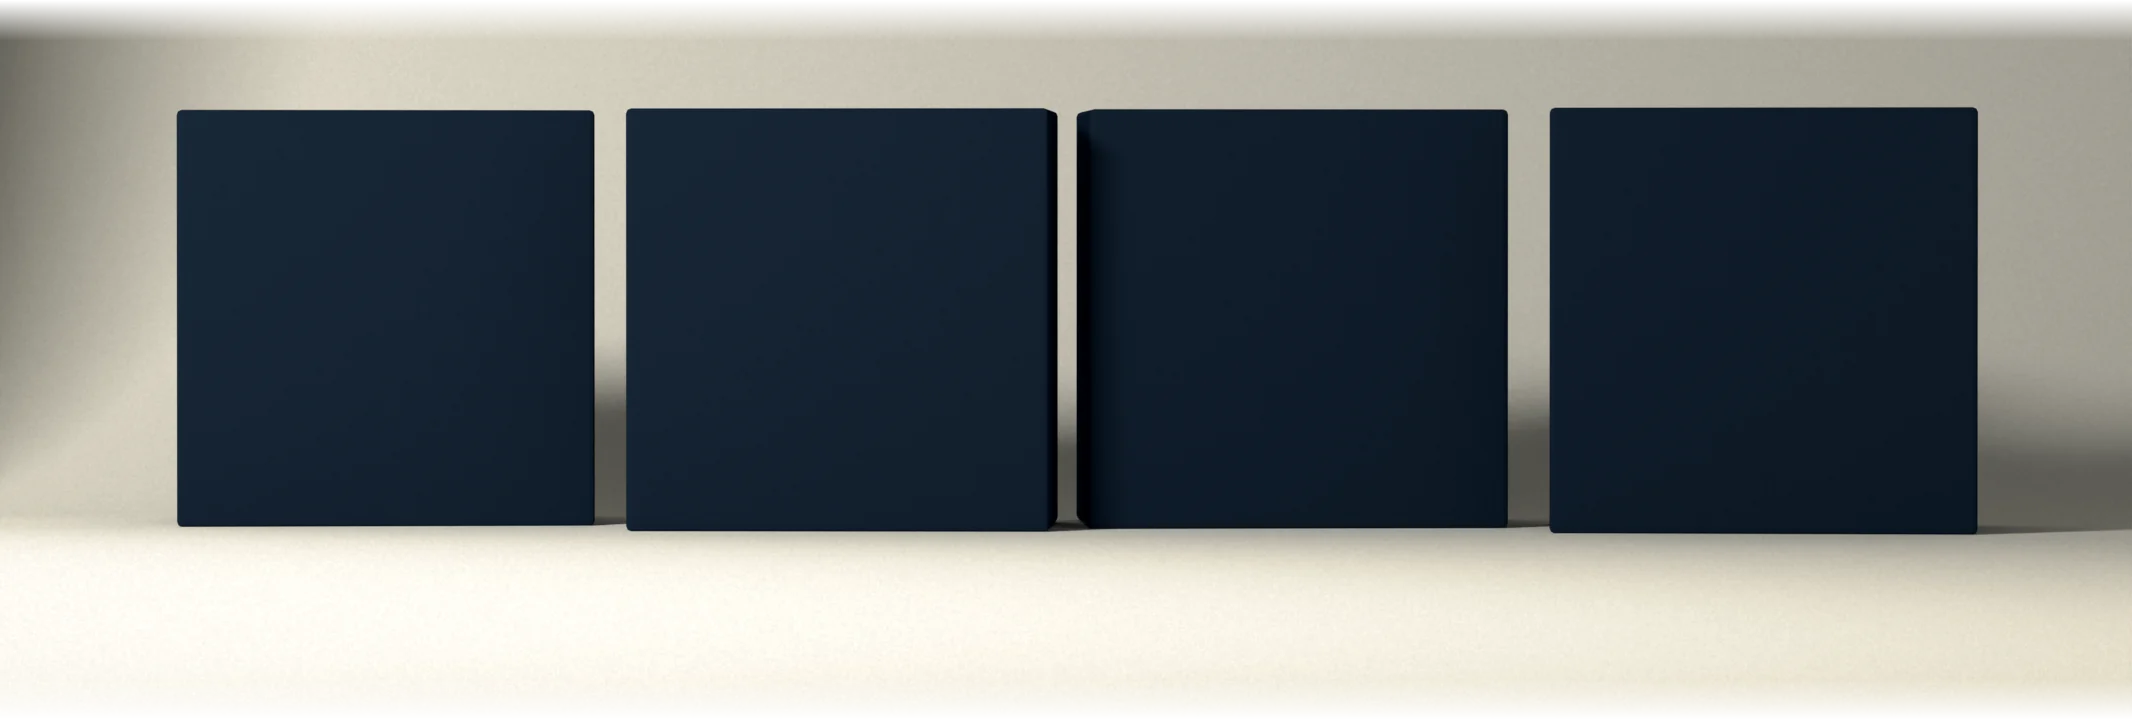
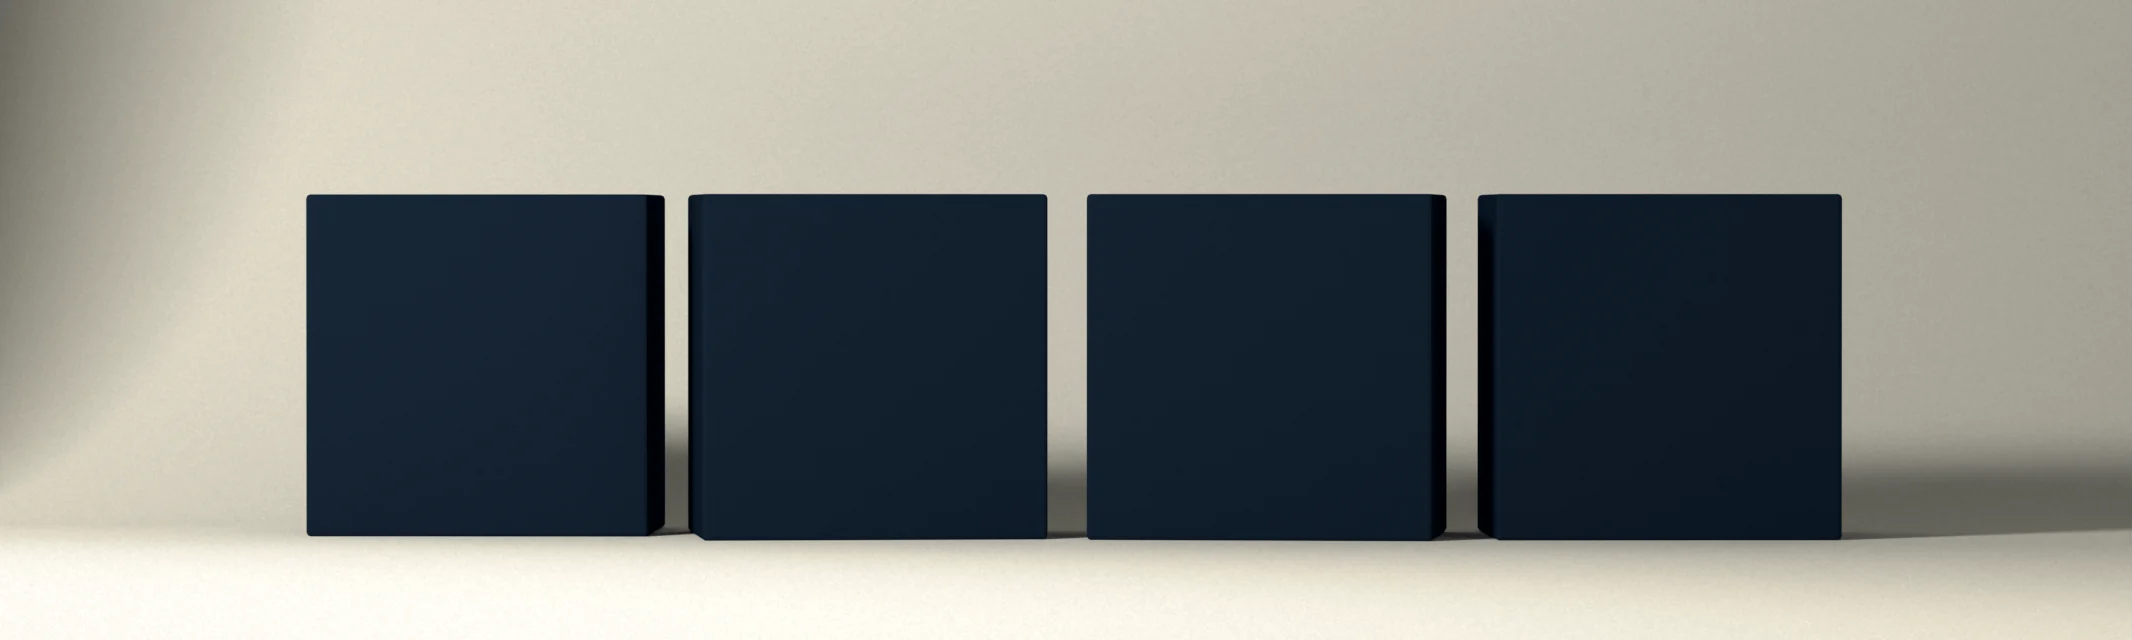
Four Ps: press them together first, then throw them apart
Still too subtle was the note, three times running. This makes the move
bigger in every axis it has, and gives it a reversal.

TWO STAGES. The masses are now pressed together before they repel. The
press is a uniform contraction pushing into a resistance that grows the
whole way, so they enter fast and arrive slowly - the outer pair at about a
fifteenth of the speed it started with - and stop with the faces 5-23px
apart. Then the press lets go and the repulsion at that gap throws them
out. Both stages come out of one integration on one clock, so they stagger
against each other rather than moving in step.

THEY TURN. Rotation was static per mass; it is now animated, and the range
is 18-21 degrees each rather than a few. They square up as they are pressed
together and twist as they are thrown apart - an extended body shoved
off-centre gets a torque, not just a push. The turn is deliberately LAGGED
behind the lateral move (and so is the depth), because the spring apart is
front-loaded by the physics and without the lag the back half of the
scroll had nothing left to do.

MORE OF EVERYTHING ELSE. Depth now spans 5.3m rather than 2.4 - PLACE comes
nearly three metres forward and PRODUCT goes two and a half back, an 11%
difference in apparent size. On screen the gaps between the faces run
84/42/96px at the top of the section, 8/23/5 at the tightest, and
138/190/130 at the end. The previous pass went 8/10/13 to 48/56/74.
[…]

diff --git a/assets/kd.js b/assets/kd.js
@@ -186,7 +186,7 @@
 
   // Plate geometry, emitted by the render so the markup and the scroll
   // driver cannot drift from the image they are positioning against.
-  window.KD_PS={"w":2132,"h":1600,"n":28,"band":{"x":0,"y":500,"w":2132,"h":720},"anchor":820,"masses":[{"name":"PRODUCT","copy":"What you make."},{"name":"PRICE","copy":"What you ask."},{"name":"PLACE","copy":"Where and how it reaches people."},{"name":"PROMOTION","copy":"What you say and signal."}],"frames":[[[1.00784,0.001433,203.751995,0.007011,1.001476,609.072351,1e-05,1e-06],[0.999722,0.001439,636.4867,-0.003133,1.006032,608.594489,-4e-06,1e-06],[1.008215,0.001436,1073.807998,0.004687,1.003613,608.848262,7e-06,1e-06],[0.990943,0.00144,1512.166691,-0.007835,1.007491,608.441353,-1.1e-05,1e-06]],[[1.006481,0.001431,196.034285,0.007002,1.000126,609.214044,1e-05,1e-06],[0.999722,0.001439,636.4867,-0.003133,1.006032,608.594489,-4e-06,1e-06],[1.008215,0.001436,1073.807998,0.004687,1.003613,608.848262,7e-06,1e-06],[0.991725,0.001444,1517.246471,-0.007841,1.008287,608.357954,-1.1e-05,1e-06]],[[1.005361,0.001429,189.675776,0.006993,0.999013,609.330845,1e-05,1e-06],[0.999722,0.001439,636.4867,-0.003133,1.006032,608.594489,-4e-06,1e-06],[1.008215,0.001436,1073.807998,0.004687,1.003613,608.848262,7e-06,1e-06],[0.993264,0.001443,1527.248201,-0.007853,1.009849,608.193946,-1.1e-05,1e-06]],[[1.004385,0.001428,184.133943,0.006987,0.998043,609.432554,1e-05,1e-06],[0.999722,0.001439,636.4867,-0.003133,1.006032,608.594489,-4e-06,1e-06],[1.007986,0.001435,1074.813305,0.004685,1.003385,608.872151,7e-06,1e-06],[0.994534,0.001447,1535.512025,-0.007863,1.011143,608.058405,-1.1e-05,1e-06]],[[1.003509,0.001426,179.160781,0.00698,0.997172,609.523892,1e-05,1e-06],[0.99983,0.00144,636.223206,-0.003133,1.006142,608.582973,-4e-06,1e-06],[1.007526,0.001434,1076.837771,0.004683,1.002926,608.920217,7e-06,1e-06],[0.99565,0.001449,1542.765713,-0.007872,1.012278,607.939386,-1.1e-05,1e-06]],[[1.002709,0.001425,174.615646,0.006976,0.996376,609.607291,1e-05,1e-06],[1.000463,0.00144,634.684747,-0.003135,1.006778,608.516169,-4e-06,1e-06],[1.007014,0.001433,1079.086273,0.004681,1.002417,608.973575,7e-06,1e-06],[0.996658,0.001449,1549.320986,-0.00788,1.013302,607.831812,-1.1e-05,1e-06]],[[1.001967,0.001424,170.408743,0.00697,0.99564,609.684539,1e-05,1e-06],[1.001386,0.001441,632.443805,-0.003138,1.007707,608.418751,-4e-06,1e-06],[1.006515,0.001433,1081.283944,0.004679,1.00192,609.025788,7e-06,1e-06],[0.997585,0.00145,1555.350413,-0.007888,1.014245,607.732964,-1.1e-05,1e-06]],[[1.001275,0.001423,166.478454,0.006965,0.994952,609.756708,1e-05,1e-06],[1.002343,0.001443,630.120074,-0.003141,1.00867,608.317757,-4e-06,1e-06],[1.006038,0.001433,1083.379065,0.004676,1.001446,609.075499,7e-06,1e-06],[0.998448,0.001452,1560.963027,-0.007894,1.015122,607.64091,-1.1e-05,1e-06]],[[1.000624,0.001423,162.779574,0.006961,0.994306,609.824586,1e-05,1e-06],[1.003269,0.001444,627.869538,-0.003144,1.009602,608.219981,-4e-06,1e-06],[1.005588,0.001432,1085.363882,0.004674,1.000997,609.122634,7e-06,1e-06],[0.999259,0.001453,1566.233932,-0.007901,1.015946,607.554436,-1.1e-05,1e-06]],[[1.000007,0.001422,159.278456,0.006956,0.993693,609.888887,1e-05,1e-06],[1.004148,0.001445,625.73496,-0.003147,1.010486,608.127213,-4e-06,1e-06],[1.00516,0.001431,1087.244115,0.004673,1.000571,609.167266,7e-06,1e-06],[1.000025,0.001452,1571.217768,-0.007907,1.016725,607.47261,-1.1e-05,1e-06]],[[0.999421,0.001421,155.948512,0.006952,0.99311,609.950042,1e-05,1e-06],[1.004978,0.001447,623.719009,-0.003149,1.011322,608.039594,-4e-06,1e-06],[1.004755,0.001431,1089.02904,0.004671,1.000168,609.209609,7e-06,1e-06],[1.000755,0.001455,1575.955584,-0.007912,1.017467,607.394934,-1.1e-05,1e-06]],[[0.998861,0.00142,152.768694,0.006948,0.992553,610.008407,1e-05,1e-06],[1.005766,0.001448,621.804847,-0.003151,1.012115,607.956409,-4e-06,1e-06],[1.004367,0.001429,1090.728315,0.004669,0.999782,609.250021,7e-06,1e-06],[1.00145,0.001457,1580.479529,-0.007918,1.018175,607.32069,-1.1e-05,1e-06]],[[0.998324,0.001419,149.722036,0.006945,0.992019,610.06434,1e-05,1e-06],[1.006516,0.001449,619.982371,-0.003154,1.01287,607.877231,-4e-06,1e-06],[1.003998,0.001429,1092.350835,0.004667,0.999415,609.288573,7e-06,1e-06],[1.002118,0.001457,1584.8154,-0.007923,1.018852,607.249594,-1.1e-05,1e-06]],[[0.997808,0.001418,146.794275,0.006941,0.991507,610.118055,1e-05,1e-06],[1.007233,0.00145,618.242177,-0.003156,1.013591,607.801557,-4e-06,1e-06],[1.003646,0.001429,1093.90448,0.004666,0.999064,609.325409,7e-06,1e-06],[1.002759,0.001459,1588.984164,-0.007928,1.019504,607.181215,-1.1e-05,1e-06]],[[0.997311,0.001418,143.973798,0.006938,0.991014,610.16984,1e-05,1e-06],[1.007918,0.001451,616.575624,-0.003159,1.014282,607.729173,-4e-06,1e-06],[1.003307,0.001429,1095.396111,0.004664,0.998727,609.360814,7e-06,1e-06],[1.003377,0.00146,1593.003104,-0.007933,1.020133,607.11534,-1.1e-05,1e-06]],[[0.996832,0.001417,141.250504,0.006934,0.990538,610.219836,1e-05,1e-06],[1.008577,0.001452,614.977439,-0.00316,1.014943,607.659721,-4e-06,1e-06],[1.00298,0.001429,1096.831574,0.004662,0.998402,609.394932,7e-06,1e-06],[1.003974,0.00146,1596.886708,-0.007938,1.02074,607.051611,-1.1e-05,1e-06]],[[0.996368,0.001416,138.615831,0.006931,0.990076,610.268259,1e-05,1e-06],[1.009208,0.001452,613.443555,-0.003163,1.015578,607.59306,-4e-06,1e-06],[1.002666,0.001428,1098.214427,0.004661,0.998088,609.427762,7e-06,1e-06],[1.004553,0.001461,1600.6473,-0.007942,1.021329,606.989884,-1.1e-05,1e-06]],[[0.995918,0.001416,136.062439,0.006928,0.989629,610.315108,1e-05,1e-06],[1.009818,0.001454,611.962662,-0.003165,1.016192,607.528687,-4e-06,1e-06],[1.002362,0.001428,1099.549499,0.004659,0.997787,609.459448,7e-06,1e-06],[1.005113,0.001462,1604.295557,-0.007947,1.021899,606.930089,-1.1e-05,1e-06]],[[0.995482,0.001415,133.583943,0.006925,0.989195,610.360599,1e-05,1e-06],[1.010408,0.001454,610.530185,-0.003166,1.016785,607.466459,-4e-06,1e-06],[1.002068,0.001427,1100.842381,0.004658,0.997494,609.490132,7e-06,1e-06],[1.005658,0.001462,1607.8405,-0.007951,1.022453,606.871939,-1.1e-05,1e-06]],[[0.995057,0.001414,131.174616,0.006922,0.988774,610.404873,1e-05,1e-06],[1.010979,0.001456,609.141868,-0.003168,1.017361,607.406092,-4e-06,1e-06],[1.001782,0.001426,1102.096505,0.004656,0.99721,609.519958,7e-06,1e-06],[1.006189,0.001464,1611.290262,-0.007956,1.022993,606.815362,-1.1e-05,1e-06]],[[0.994644,0.001414,128.829432,0.006919,0.988364,610.44786,1e-05,1e-06],[1.011534,0.001456,607.794406,-0.00317,1.017919,607.347512,-4e-06,1e-06],[1.001505,0.001426,1103.314666,0.004655,0.996934,609.548855,7e-06,1e-06],[1.006707,0.001467,1614.651833,-0.007959,1.02352,606.760216,-1.1e-05,1e-06]],[[0.994242,0.001413,126.544165,0.006916,0.987964,610.489845,1e-05,1e-06],[1.012073,0.001457,606.48513,-0.003171,1.018461,607.290649,-4e-06,1e-06],[1.001236,0.001425,1104.499533,0.004654,0.996665,609.576964,7e-06,1e-06],[1.007212,0.001464,1617.931566,-0.007963,1.024031,606.706357,-1.1e-05,1e-06]],[[0.993849,0.001413,124.31478,0.006914,0.987574,610.530758,1e-05,1e-06],[1.012596,0.001457,605.214105,-0.003173,1.018988,607.235432,-4e-06,1e-06],[1.000974,0.001425,1105.65352,0.004653,0.996405,609.604359,7e-06,1e-06],[1.007703,0.001466,1621.134671,-0.007967,1.024532,606.653857,-1.1e-05,1e-06]],[[0.993466,0.001412,122.137711,0.006911,0.987193,610.570741,1e-05,1e-06],[1.013106,0.001458,603.974913,-0.003175,1.019501,607.181573,-4e-06,1e-06],[1.000718,0.001425,1106.778534,0.004652,0.99615,609.631109,7e-06,1e-06],[1.008186,0.001468,1624.266232,-0.007971,1.025022,606.602502,-1.1e-05,1e-06]],[[0.993091,0.001412,120.009853,0.006909,0.98682,610.609794,1e-05,1e-06],[1.013604,0.00146,602.765266,-0.003176,1.020003,607.129002,-4e-06,1e-06],[1.000468,0.001425,1107.87648,0.004651,0.995902,609.657145,7e-06,1e-06],[1.008656,0.001467,1627.330823,-0.007975,1.025501,606.552219,-1.1e-05,1e-06]],[[0.992724,0.001411,117.928115,0.006906,0.986455,610.64806,1e-05,1e-06],[1.014091,0.00146,601.583576,-0.003177,1.020492,607.077646,-4e-06,1e-06],[1.000225,0.001424,1108.949138,0.004649,0.995659,609.682608,7e-06,1e-06],[1.009118,0.001466,1630.332385,-0.007978,1.02597,606.502938,-1.1e-05,1e-06]],[[0.992365,0.00141,115.890267,0.006903,0.986098,610.685468,1e-05,1e-06],[1.014567,0.001461,600.427873,-0.003179,1.020971,607.027435,-4e-06,1e-06],[0.999986,0.001423,1109.997905,0.004648,0.995421,609.707499,7e-06,1e-06],[1.009571,0.001467,1633.27422,-0.007982,1.02643,606.45473,-1.1e-05,1e-06]],[[0.992014,0.00141,113.893584,0.006901,0.98575,610.722089,1e-05,1e-06],[1.015033,0.001461,599.296696,-0.00318,1.021439,606.978226,-4e-06,1e-06],[0.999753,0.001422,1111.02418,0.004648,0.995188,609.731889,7e-06,1e-06],[1.010015,0.001468,1636.160013,-0.007985,1.026881,606.40738,-1.1e-05,1e-06]]]};
+  window.KD_PS={"w":2132,"h":1900,"n":36,"band":{"x":0,"y":640,"w":2132,"h":640},"anchor":1007,"masses":[{"name":"PRODUCT","copy":"What you make."},{"name":"PRICE","copy":"What you ask."},{"name":"PLACE","copy":"Where and how it reaches people."},{"name":"PROMOTION","copy":"What you say and signal."}],"frames":[[[0.80765,0.00117,226.286324,-0.006161,0.818237,834.277773,-7e-06,1e-06],[0.835954,0.001187,691.803109,0.014014,0.829881,833.853054,1.6e-05,1e-06],[0.786193,0.001172,1098.720702,-0.015344,0.818538,834.266901,-1.8e-05,1e-06],[0.836576,0.001188,1582.712782,0.007818,0.831101,833.808565,9e-06,1e-06]],[[0.8078,0.00117,239.053824,-0.005936,0.817966,834.287715,-7e-06,1e-06],[0.835954,0.001187,691.803109,0.014014,0.829881,833.853054,1.6e-05,1e-06],[0.786263,0.001171,1098.245052,-0.015332,0.818575,834.265471,-1.8e-05,1e-06],[0.836576,0.001188,1582.712782,0.007818,0.831101,833.808565,9e-06,1e-06]],[[0.808298,0.00117,251.563977,-0.005465,0.817602,834.301019,-6e-06,1e-06],[0.835954,0.001187,691.803109,0.014014,0.829881,833.853054,1.6e-05,1e-06],[0.787724,0.001172,1095.54047,-0.015016,0.81913,834.2453,-1.7e-05,1e-06],[0.836237,0.001187,1572.294747,0.007631,0.830843,833.817935,9e-06,1e-06]],[[0.809015,0.001169,263.617494,-0.004842,0.817215,834.315109,-6e-06,1e-06],[0.83582,0.001186,694.338551,0.013806,0.829703,833.859563,1.6e-05,1e-06],[0.790342,0.001172,1093.156504,-0.014382,0.819966,834.214759,-1.7e-05,1e-06],[0.835166,0.001186,1555.122691,0.006889,0.830131,833.843899,8e-06,1e-06]],[[0.809858,0.001168,275.1218,-0.004119,0.816823,834.329414,-5e-06,1e-06],[0.835517,0.001186,697.098475,0.013148,0.829289,833.874655,1.5e-05,1e-06],[0.793858,0.001175,1091.046516,-0.013473,0.821009,834.176707,-1.6e-05,1e-06],[0.833714,0.001186,1538.724662,0.005842,0.829281,833.874941,7e-06,1e-06]],[[0.810755,0.001167,286.012911,-0.003333,0.816442,834.34329,-4e-06,1e-06],[0.835055,0.001186,699.352569,0.012155,0.828746,833.894467,1.4e-05,1e-06],[0.798121,0.001176,1089.2086,-0.012303,0.822227,834.13229,-1.4e-05,1e-06],[0.831973,0.001183,1523.399036,0.00463,0.828379,833.907843,5e-06,1e-06]],[[0.811653,0.001167,296.242396,-0.002512,0.816076,834.356594,-3e-06,1e-06],[0.834361,0.001185,701.178158,0.010872,0.828097,833.918142,1.3e-05,1e-06],[0.80298,0.001179,1087.660292,-0.010885,0.823601,834.082222,-1.3e-05,1e-06],[0.830019,0.001182,1509.323849,0.003346,0.827478,833.940673,4e-06,1e-06]],[[0.81251,0.001167,305.774068,-0.001685,0.815731,834.369254,-2e-06,1e-06],[0.833346,0.001183,702.630268,0.009336,0.827363,833.944893,1.1e-05,1e-06],[0.808246,0.001179,1086.428025,-0.009242,0.825099,834.027433,-1.1e-05,1e-06],[0.827924,0.001183,1496.594536,0.002057,0.826612,833.972359,2e-06,1e-06]],[[0.813304,0.001166,314.582163,-0.000869,0.815408,834.381056,-1e-06,1e-06],[0.831927,0.001182,703.756807,0.007591,0.826561,833.974147,9e-06,1e-06],[0.813688,0.001184,1085.535182,-0.007413,0.826692,833.969426,-9e-06,1e-06],[0.825762,0.001182,1485.23308,0.000814,0.825798,834.002042,1e-06,1e-06]],[[0.814017,0.001166,322.651655,-8.1e-05,0.815109,834.391928,-0.0,1e-06],[0.830046,0.001181,704.605682,0.005692,0.825713,834.005117,7e-06,1e-06],[0.81904,0.001184,1084.990275,-0.005457,0.828321,833.909988,-6e-06,1e-06],[0.823603,0.001179,1475.200343,-0.000354,0.82505,834.029293,-0.0,1e-06]],[[0.814643,0.001166,329.976569,0.000665,0.814837,834.40187,1e-06,1e-06],[0.827709,0.00118,705.226072,0.003714,0.824847,834.03666,4e-06,1e-06],[0.824037,0.001187,1084.774371,-0.003457,0.82993,833.851266,-4e-06,1e-06],[0.821506,0.001179,1466.416011,-0.001427,0.824375,834.053898,-2e-06,1e-06]],[[0.81518,0.001165,336.558655,0.00136,0.814591,834.41081,2e-06,1e-06],[0.825001,0.001179,705.667919,0.001752,0.824002,834.067559,2e-06,1e-06],[0.828455,0.001189,1084.83702,-0.001512,0.83145,833.795834,-2e-06,1e-06],[0.819514,0.001179,1458.785158,-0.002397,0.823772,834.075928,-3e-06,1e-06]],[[0.815632,0.001165,342.40633,0.001994,0.814372,834.418821,2e-06,1e-06],[0.822097,0.001177,705.97767,-9.3e-05,0.823214,834.096241,-0.0,1e-06],[0.832151,0.001191,1085.100197,0.000284,0.832819,833.745909,0.0,1e-06],[0.817667,0.001178,1452.219974,-0.003258,0.823242,834.09524,-4e-06,1e-06]],[[0.816006,0.001165,347.532938,0.002565,0.81418,834.425831,3e-06,1e-06],[0.819233,0.001176,706.194146,-0.001728,0.822522,834.12149,-2e-06,1e-06],[0.835084,0.001192,1085.473422,0.001852,0.83399,833.703136,2e-06,1e-06],[0.816,0.001177,1446.649803,-0.004009,0.822784,834.111977,-5e-06,1e-06]],[[0.81631,0.001164,351.958907,0.003067,0.814013,834.431911,4e-06,1e-06],[0.816625,0.001176,706.346511,-0.003097,0.821945,834.14259,-4e-06,1e-06],[0.837298,0.001194,1085.873588,0.003145,0.834942,833.668447,4e-06,1e-06],[0.814539,0.001178,1442.01708,-0.004646,0.822398,834.126139,-5e-06,1e-06]],[[0.814418,0.001163,323.144269,0.002494,0.812659,834.481335,3e-06,1e-06],[0.816625,0.001176,706.346511,-0.003097,0.821945,834.14259,-4e-06,1e-06],[0.837298,0.001194,1085.873588,0.003145,0.834942,833.668447,4e-06,1e-06],[0.81584,0.001175,1486.291505,-0.003284,0.821454,834.160471,-4e-06,1e-06]],[[0.810439,0.001159,290.833073,0.001031,0.810209,834.57067,1e-06,1e-06],[0.816625,0.001176,706.346511,-0.003097,0.821945,834.14259,-4e-06,1e-06],[0.837298,0.001194,1085.873588,0.003145,0.834942,833.668447,4e-06,1e-06],[0.817604,0.001173,1514.353179,-0.001592,0.820698,834.188008,-2e-06,1e-06]],[[0.806415,0.001156,266.782874,-0.000488,0.808013,834.650779,-1e-06,1e-06],[0.816625,0.001176,706.346511,-0.003097,0.821945,834.14259,-4e-06,1e-06],[0.840189,0.001198,1099.484817,0.003642,0.837394,833.578968,4e-06,1e-06],[0.819188,0.001173,1536.820157,9.7e-05,0.820066,834.211111,0.0,1e-06]],[[0.802362,0.001153,246.917911,-0.001988,0.806004,834.724092,-2e-06,1e-06],[0.816643,0.001176,701.198872,-0.003158,0.822059,834.13837,-4e-06,1e-06],[0.843808,0.001202,1110.851482,0.004465,0.840339,833.471537,5e-06,1e-06],[0.820514,0.001173,1556.163452,0.001753,0.819511,834.231424,2e-06,1e-06]],[[0.798263,0.00115,229.700345,-0.003454,0.804138,834.792185,-4e-06,1e-06],[0.816236,0.001177,684.118375,-0.003799,0.822676,834.115911,-4e-06,1e-06],[0.847123,0.001206,1120.111845,0.005322,0.843026,833.373547,6e-06,1e-06],[0.821575,0.001171,1573.449242,0.003373,0.819006,834.249735,4e-06,1e-06]],[[0.794103,0.001148,214.354149,-0.004885,0.802381,834.856272,-6e-06,1e-06],[0.815553,0.001178,672.221035,-0.004512,0.823182,834.097457,-5e-06,1e-06],[0.850165,0.001208,1128.186832,0.006176,0.84551,833.282924,7e-06,1e-06],[0.822373,0.001171,1589.252424,0.004957,0.818542,834.266758,6e-06,1e-06]],[[0.789871,0.001145,200.42329,-0.006284,0.800712,834.91714,-7e-06,1e-06],[0.814755,0.001178,662.536362,-0.00522,0.823616,834.081578,-6e-06,1e-06],[0.852981,0.001213,1135.482329,0.007023,0.847846,833.197737,8e-06,1e-06],[0.822918,0.00117,1603.924238,0.006509,0.818107,834.282565,8e-06,1e-06]],[[0.785563,0.001143,187.613092,-0.00765,0.79912,834.975219,-9e-06,1e-06],[0.813884,0.001179,654.148511,-0.005914,0.824004,834.067416,-7e-06,1e-06],[0.855602,0.001217,1142.217542,0.00786,0.850061,833.116913,9e-06,1e-06],[0.82322,0.00117,1617.697744,0.008029,0.817696,834.297585,9e-06,1e-06]],[[0.781175,0.001141,175.720454,-0.008989,0.797589,835.03108,-1e-05,1e-06],[0.812954,0.001179,646.639589,-0.006595,0.824357,834.054542,-8e-06,1e-06],[0.858054,0.001218,1148.526539,0.008687,0.852179,833.039665,1e-05,1e-06],[0.823288,0.001168,1630.736236,0.009521,0.817304,834.311819,1.1e-05,1e-06]],[[0.776706,0.001139,164.59784,-0.010299,0.796111,835.084939,-1.2e-05,1e-06],[0.811978,0.00118,639.777489,-0.007262,0.824685,834.042597,-8e-06,1e-06],[0.860357,0.001222,1154.497638,0.009504,0.854216,832.96535,1.1e-05,1e-06],[0.823131,0.001167,1643.159801,0.010986,0.816929,834.32548,1.3e-05,1e-06]],[[0.772154,0.001136,154.134518,-0.011584,0.794682,835.137081,-1.3e-05,1e-06],[0.810958,0.00118,633.418042,-0.007917,0.824991,834.031439,-9e-06,1e-06],[0.862524,0.001225,1160.193234,0.010311,0.856185,832.893538,1.2e-05,1e-06],[0.822759,0.001168,1655.059301,0.012426,0.816568,834.338713,1.4e-05,1e-06]],[[0.767519,0.001134,144.244441,-0.012846,0.793296,835.18765,-1.5e-05,1e-06],[0.8099,0.00118,627.464162,-0.00856,0.825279,834.020925,-1e-05,1e-06],[0.864566,0.001228,1165.658947,0.01111,0.858093,832.823944,1.3e-05,1e-06],[0.822178,0.001166,1666.505517,0.013842,0.816218,834.351444,1.6e-05,1e-06]],[[0.762804,0.001133,134.859463,-0.014084,0.791949,835.236788,-1.6e-05,1e-06],[0.808805,0.001181,621.846719,-0.009194,0.825552,834.010983,-1.1e-05,1e-06],[0.866496,0.001231,1170.929343,0.011902,0.859949,832.756209,1.4e-05,1e-06],[0.821396,0.001167,1677.554998,0.015236,0.81588,834.363818,1.8e-05,1e-06]],[[0.758007,0.001131,125.924553,-0.0153,0.790637,835.28471,-1.8e-05,1e-06],[0.807678,0.00118,616.5145,-0.009818,0.825812,834.00147,-1.1e-05,1e-06],[0.868318,0.001234,1176.031234,0.012685,0.861759,832.690191,1.5e-05,1e-06],[0.820418,0.001166,1688.253366,0.016608,0.815548,834.375906,1.9e-05,1e-06]],[[0.753131,0.001129,117.394375,-0.016495,0.789355,835.331416,-1.9e-05,1e-06],[0.806518,0.001182,611.428366,-0.010434,0.826062,833.992386,-1.2e-05,1e-06],[0.87004,0.001236,1180.986479,0.013462,0.863526,832.625747,1.6e-05,1e-06],[0.819251,0.001165,1698.638233,0.017959,0.815225,834.387708,2.1e-05,1e-06]],[[0.748176,0.001127,109.230879,-0.017671,0.788103,835.377121,-2e-05,1e-06],[0.805329,0.001182,606.557564,-0.011041,0.826301,833.98366,-1.3e-05,1e-06],[0.871667,0.001239,1185.812105,0.014231,0.865256,832.562661,1.6e-05,1e-06],[0.817902,0.001165,1708.741117,0.019291,0.814908,834.399223,2.2e-05,1e-06]],[[0.743145,0.001125,101.402056,-0.018827,0.786876,835.421824,-2.2e-05,1e-06],[0.80411,0.001182,601.877378,-0.01164,0.826532,833.97522,-1.3e-05,1e-06],[0.873205,0.001241,1190.522853,0.014994,0.86695,832.500792,1.7e-05,1e-06],[0.816374,0.001164,1718.588449,0.020603,0.814597,834.410596,2.4e-05,1e-06]],[[0.738038,0.001124,93.880362,-0.019965,0.785677,835.465598,-2.3e-05,1e-06],[0.802863,0.001182,597.367666,-0.012233,0.826753,833.967137,-1.4e-05,1e-06],[0.874658,0.001243,1195.130542,0.015752,0.868614,832.440138,1.8e-05,1e-06],[0.814674,0.001165,1728.202848,0.021897,0.814291,834.421754,2.5e-05,1e-06]],[[0.732858,0.001122,86.642106,-0.021085,0.7845,835.508513,-2.4e-05,1e-06],[0.801588,0.001182,593.01159,-0.012819,0.826967,833.959341,-1.5e-05,1e-06],[0.87603,0.001246,1199.645337,0.016503,0.870249,832.380486,1.9e-05,1e-06],[0.812804,0.001162,1737.603885,0.023172,0.813988,834.432769,2.7e-05,1e-06]],[[0.727605,0.00112,79.666812,-0.022188,0.783343,835.550714,-2.6e-05,1e-06],[0.800288,0.001183,588.794917,-0.013398,0.827176,833.951759,-1.6e-05,1e-06],[0.877323,0.001248,1204.076007,0.017249,0.871857,832.321835,2e-05,1e-06],[0.810771,0.001165,1746.80808,0.02443,0.813692,834.443641,2.8e-05,1e-06]],[[0.722281,0.001119,72.936403,-0.023274,0.782208,835.592127,-2.7e-05,1e-06],[0.798962,0.001184,584.70583,-0.013971,0.827378,833.944392,-1.6e-05,1e-06],[0.878541,0.00125,1208.43005,0.01799,0.873439,832.264113,2.1e-05,1e-06],[0.808577,0.001164,1755.830554,0.025671,0.813398,834.45437,3e-05,1e-06]]]};
 
   // ── the four Ps room ─────────────────────────────────────────────────────
   // A rendered cream room. The masses and their shadows are a Cycles frame
@@ -196,9 +196,16 @@
   // any of that - measured against real depth-moved renders, transforming a
   // flat sprite was worse than not moving it at all.
   //
+  // The movement is in two stages. The masses are first pressed TOGETHER until
+  // their faces are a few pixels apart - decelerating the whole way, because
+  // the repulsion they are being pushed into keeps growing - and then let go,
+  // which throws them wide. Each one also turns and changes depth as it
+  // travels, lagged behind the lateral move so the back half of the scroll is
+  // still doing something after the spring has spent itself.
+  //
   // The room plate is static and carries the whole frame; each sequence frame
   // is RGBA over it, opaque only where it differs from the room. Two <img>
-  // layers crossfade so 28 frames read as continuous movement.
+  // layers crossfade so the frames read as continuous movement.
   //
   // kd-core rebuilds #observation on both DOMContentLoaded and window.load, so
   // a later rebuild can replace the runway with a fresh empty one. Everything
@@ -276,10 +283,13 @@
     p=p<0?0:(p>1?1:p);
 
     if(psCopies.length===2){
-      psCopies[0].style.opacity=(1-psRamp(p,0.20,0.34)).toFixed(3);
-      psCopies[1].style.opacity=psRamp(p,0.60,0.74).toFixed(3);
-      psCopies[0].classList.toggle('is-on',p<0.34);
-      psCopies[1].classList.toggle('is-on',p>=0.60);
+      // The premise holds through the gathering and clears exactly as they
+      // close up. The room then plays alone for a beat - the tightest frame and
+      // the snap out of it - before the conclusion arrives over the spread.
+      psCopies[0].style.opacity=(1-psRamp(p,0.28,0.42)).toFixed(3);
+      psCopies[1].style.opacity=psRamp(p,0.50,0.64).toFixed(3);
+      psCopies[0].classList.toggle('is-on',p<0.42);
+      psCopies[1].classList.toggle('is-on',p>=0.50);
     }
 
     // hold at both ends so the movement happens inside the section rather than
